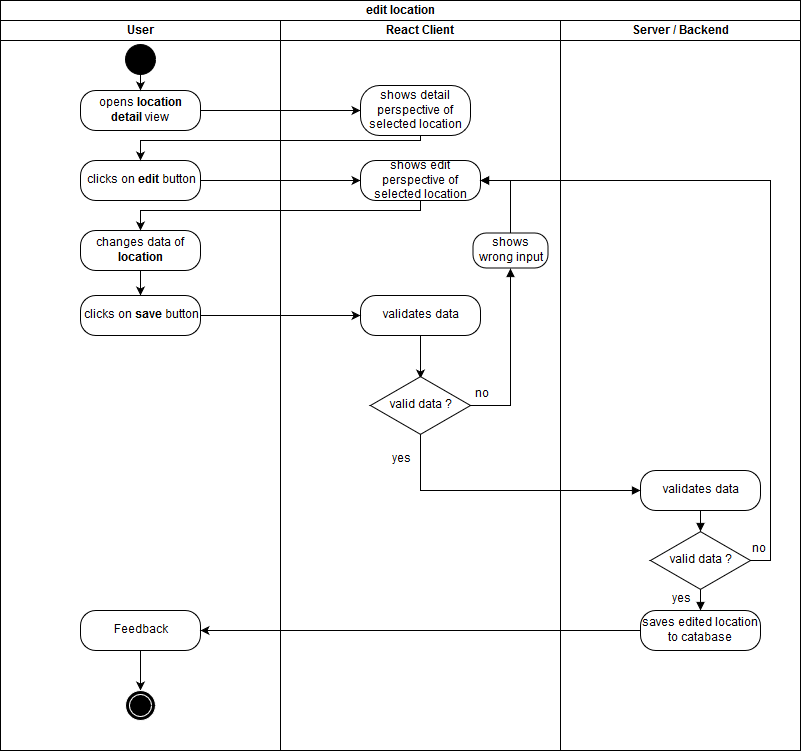
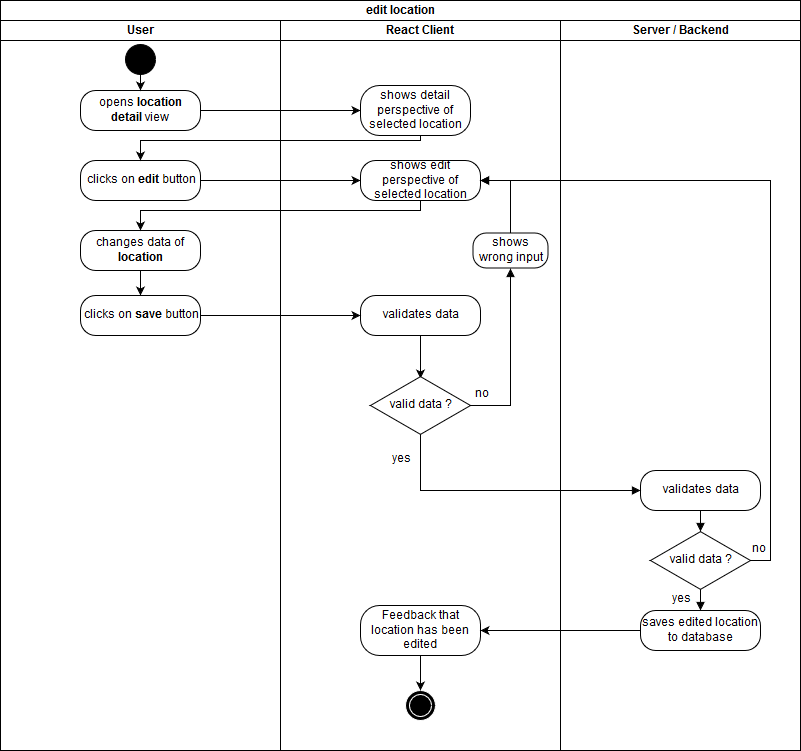
began implementing RUD for user management; fixed activity diagrams to end in the react part showing feedback and not in the users part

diff --git a/documentation/useCases/RUDaccount/RUD_account.md b/documentation/useCases/RUDaccount/RUD_account.md
@@ -1,0 +1,84 @@
+![mockup file missing][mu0]
+
+[mu0]: ../../../src/images/logo_perfecttime.svg "PT Logo"
+# Use Case Specification: Perfect Time
+Last updated:
+11th April 2019
+
+## 1. RUD for account
+This use case is described as a RUD (Read, Update, Delete). The Create component is realised in the [register](.. /register/register_useCase.md) use case.
+
+### 1.1 Brief description
+With the ability to view the account details the user is able to see all the Data, deposited at PerfectTime. If details like the email, profilepicture, name or password are outdated the user also has the opportunity to change these values. Also if there is the wish to leafe Perfect Time the User can delete the account.
+
+### 1.2 Mockups
+
+#### View Account
+![mockup file missing][mu12]
+
+[mu12]: ./viewAccountMockUp.png "View Account"
+#### Edit Account
+![mockup file missing][mu13]
+
+[mu13]: ./editAccountMockUp.png "Edit Account"
+#### Delete Account
+![mockup file missing][mu14]
+
+[mu14]: ./deleteAccountMockUp.png "Delete Account"
+## 2. Flow of events
+
+This section shows the different flow of events for the different RUD functions.
+
+### 2.1 Basic flow
+
+#### View Account
+View Account can be accessed from the main view by clicking on options/account.
+
+![mockup file missing][mu2]
+
+[mu2]: ./viewAccount_activityDiagramm.png "View Account"
+
+#### Edit Account
+Edit Account is accessible from the view Account page.
+
+![mockup file missing][mu3]
+
+[mu3]: ./editAccount_activityDiagramm.png "Edit Account"
+
+#### Delete Account
+Edit Account also is accessible from the view Account page.
+
+![mockup file missing][mu4]
+
+[mu4]: ./deleteAccount_activityDiagramm.png "Create Account"
+
+### 2.2 Feature File
+
+Not needed.
+
+## 3. Preconditions
+
+#### General conditions
+- The user has to be a registered user.
+- The user has to be logged in.
+
+## 4. Postconditions
+- The client and the host have to be synchronized.
+- The view has to be up-to-date.
+
+## 5. Function points
+
+Not needed at the moment.
+Tool from <a href ="http://groups.umd.umich.edu/cis/course.des/cis375/projects/fp99/main.html">http://groups.umd.umich.edu </a>
+The score is XX.XX function points.
+#### Domain characteristics table
+
+![mockup file missing][mu5]
+
+[mu5]: ./function_points1.png "function points 1"
+
+#### Complexity adjustment table
+
+![mockup file missing][mu6]
+
+[mu6]: ./function_points2.png "function points 2"
